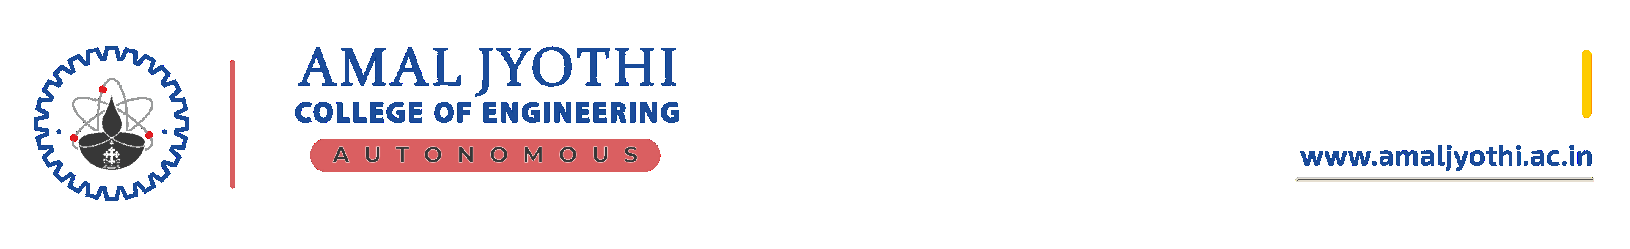
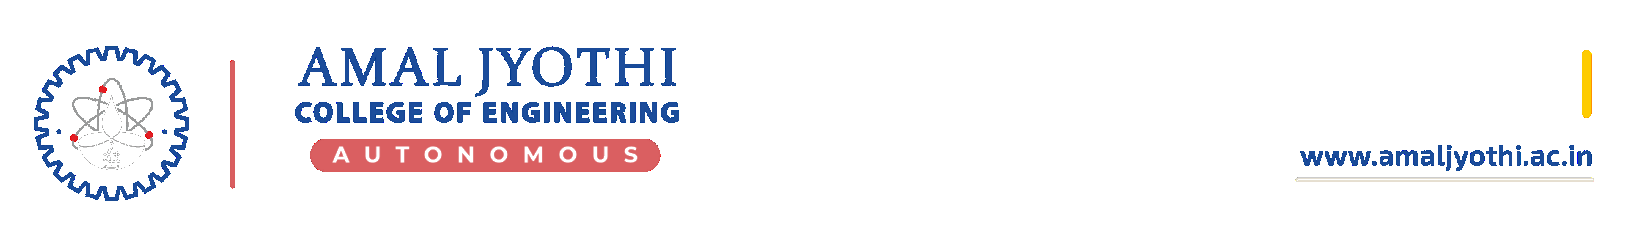
Fix missing PCA letterhead and footer in print/PDF output.
Remove mix-blend-mode screen on white paper and ship PNGs with transparent backgrounds so header and footer render in browser print and PDF.

Changed region(s): [[0.184, 0.5904, 0.3988, 0.6466], [0.0307, 0.4217, 0.092, 0.6747], [0.7975, 0.7028, 0.9816, 0.7309]]

diff --git a/pca-offer-letter.html b/pca-offer-letter.html
@@ -48,11 +48,10 @@
     .letterhead,
     .letter-footer {
       width: 100%;
+      height: auto;
       display: block;
       flex-shrink: 0;
-      background: #fff;
-      /* Fallback if PNG still contains black matte from export */
-      mix-blend-mode: screen;
+      background: transparent;
     }
 
     .letter-footer { margin-top: auto; }
@@ -167,11 +166,13 @@
         page-break-inside: avoid;
       }
       .letterhead-wrap,
-      .letter-footer-wrap,
+      .letter-footer-wrap {
+        background: #fff !important;
+      }
       .letterhead,
       .letter-footer {
-        background: #fff !important;
-        mix-blend-mode: screen;
+        -webkit-print-color-adjust: exact;
+        print-color-adjust: exact;
       }
       .no-print { display: none !important; }
     }
@@ -270,7 +271,7 @@
 
 <article class="sheet" id="letterSheet">
   <div class="letterhead-wrap">
-    <img class="letterhead" data-asset="css/img/pca-letterhead.png" alt="Amal Jyothi College of Engineering letterhead"/>
+    <img class="letterhead" src="css/img/pca-letterhead.png" data-asset="css/img/pca-letterhead.png" alt="Amal Jyothi College of Engineering letterhead"/>
   </div>
 
   <div class="content">
@@ -340,13 +341,13 @@
     </div>
 
     <div class="signature-block">
-      <img class="principal-sign" data-asset="css/img/principal-signature.png" alt="Signature of Dr. Lillykutty Jacob, Principal"/>
+      <img class="principal-sign" src="css/img/principal-signature.png" data-asset="css/img/principal-signature.png" alt="Signature of Dr. Lillykutty Jacob, Principal"/>
       <div class="signature-caption">Signature of Principal</div>
     </div>
   </div>
 
   <div class="letter-footer-wrap">
-    <img class="letter-footer" data-asset="css/img/pca-footer.png" alt="Contact and accreditation footer"/>
+    <img class="letter-footer" src="css/img/pca-footer.png" data-asset="css/img/pca-footer.png" alt="Contact and accreditation footer"/>
   </div>
 </article>
 
